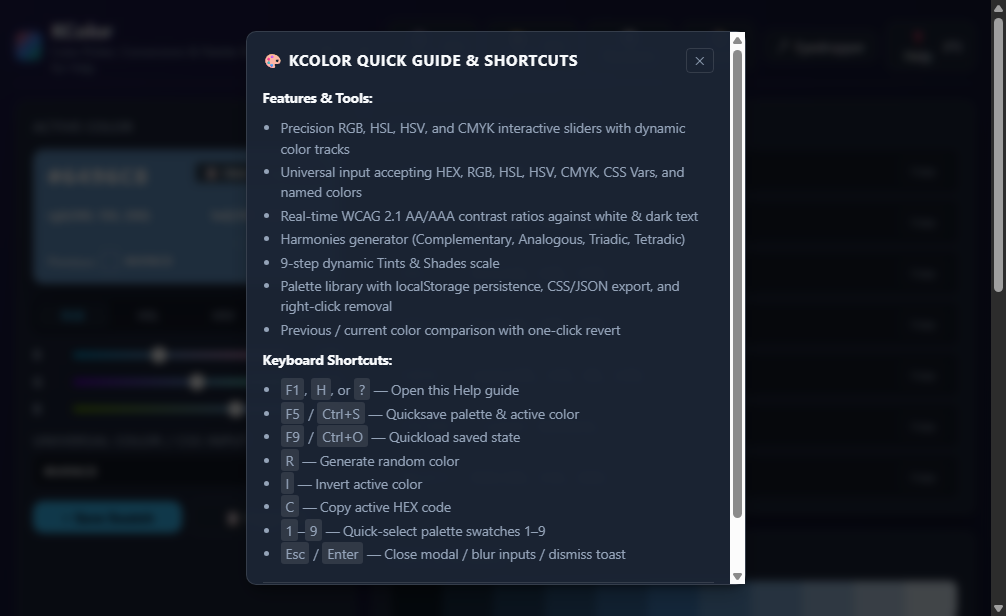
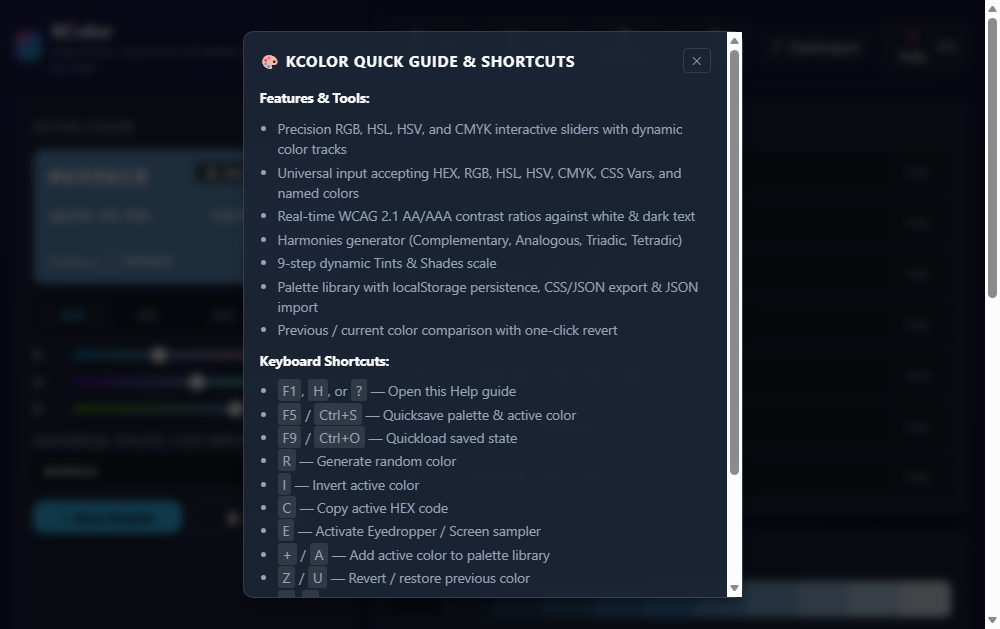
audit(test): UI audit and fixes for KColor

diff --git a/KiloOS/public/apps/kcolor.html b/KiloOS/public/apps/kcolor.html
@@ -448,10 +448,10 @@
 </header>
 
 <!-- Help & Shortcuts Modal -->
-<div id="helpModal" style="display:none; position:fixed; inset:0; background:rgba(0,0,0,0.7); backdrop-filter:blur(4px); z-index:999; justify-content:center; align-items:center; padding:16px;">
+<div id="helpModal" role="dialog" aria-modal="true" aria-labelledby="helpModalTitle" style="display:none; position:fixed; inset:0; background:rgba(0,0,0,0.7); backdrop-filter:blur(4px); z-index:999; justify-content:center; align-items:center; padding:16px;">
   <div class="card" style="max-width:500px; width:100%; max-height:90vh; overflow-y:auto; gap:14px;">
     <div class="card-title">
-      <span style="font-weight:700; color:var(--text-main); font-size:0.95rem;">🎨 KColor Quick Guide &amp; Shortcuts</span>
+      <span id="helpModalTitle" style="font-weight:700; color:var(--text-main); font-size:0.95rem;">🎨 KColor Quick Guide &amp; Shortcuts</span>
       <button class="copy-btn" id="closeHelpBtn" aria-label="Close Help">✕</button>
     </div>
     <div style="font-size:0.85rem; line-height:1.5; color:var(--text-muted); display:flex; flex-direction:column; gap:10px;">
@@ -462,7 +462,7 @@
         <li>Real-time WCAG 2.1 AA/AAA contrast ratios against white &amp; dark text</li>
         <li>Harmonies generator (Complementary, Analogous, Triadic, Tetradic)</li>
         <li>9-step dynamic Tints &amp; Shades scale</li>
-        <li>Palette library with localStorage persistence, CSS/JSON export, and right-click removal</li>
+        <li>Palette library with localStorage persistence, CSS/JSON export &amp; JSON import</li>
         <li>Previous / current color comparison with one-click revert</li>
       </ul>
       <p><strong style="color:var(--text-main);">Keyboard Shortcuts:</strong></p>
@@ -473,7 +473,11 @@
         <li><kbd style="background:rgba(255,255,255,0.1); padding:2px 5px; border-radius:3px;">R</kbd> — Generate random color</li>
         <li><kbd style="background:rgba(255,255,255,0.1); padding:2px 5px; border-radius:3px;">I</kbd> — Invert active color</li>
         <li><kbd style="background:rgba(255,255,255,0.1); padding:2px 5px; border-radius:3px;">C</kbd> — Copy active HEX code</li>
+        <li><kbd style="background:rgba(255,255,255,0.1); padding:2px 5px; border-radius:3px;">E</kbd> — Activate Eyedropper / Screen sampler</li>
+        <li><kbd style="background:rgba(255,255,255,0.1); padding:2px 5px; border-radius:3px;">+</kbd> / <kbd style="background:rgba(255,255,255,0.1); padding:2px 5px; border-radius:3px;">A</kbd> — Add active color to palette library</li>
+        <li><kbd style="background:rgba(255,255,255,0.1); padding:2px 5px; border-radius:3px;">Z</kbd> / <kbd style="background:rgba(255,255,255,0.1); padding:2px 5px; border-radius:3px;">U</kbd> — Revert / restore previous color</li>
         <li><kbd style="background:rgba(255,255,255,0.1); padding:2px 5px; border-radius:3px;">1</kbd>–<kbd style="background:rgba(255,255,255,0.1); padding:2px 5px; border-radius:3px;">9</kbd> — Quick-select palette swatches 1–9</li>
+        <li><kbd style="background:rgba(255,255,255,0.1); padding:2px 5px; border-radius:3px;">Del</kbd> / <kbd style="background:rgba(255,255,255,0.1); padding:2px 5px; border-radius:3px;">Backspace</kbd> — Remove focused saved swatch</li>
         <li><kbd style="background:rgba(255,255,255,0.1); padding:2px 5px; border-radius:3px;">Esc</kbd> / <kbd style="background:rgba(255,255,255,0.1); padding:2px 5px; border-radius:3px;">Enter</kbd> — Close modal / blur inputs / dismiss toast</li>
       </ul>
     </div>
@@ -674,9 +678,11 @@
     <div class="card">
       <div class="card-title">
         <span>Palette Library (1-9 Hotkeys)</span>
-        <div style="display:flex; gap:6px;">
+        <div style="display:flex; gap:6px; flex-wrap:wrap;">
           <button class="copy-btn" id="exportCssBtn" title="Copy all swatches as CSS variables">Copy CSS</button>
           <button class="copy-btn" id="exportJsonBtn" title="Copy all swatches as JSON array">Copy JSON</button>
+          <button class="copy-btn" id="importJsonBtn" title="Import swatches from JSON file">Import JSON</button>
+          <input type="file" id="importJsonFileInput" accept=".json,application/json" style="display:none;" aria-label="Import JSON Palette File">
           <button class="copy-btn" id="clearSwatchesBtn" aria-label="Clear Saved Swatches">Clear Saved</button>
         </div>
       </div>
@@ -806,6 +812,9 @@
   function parseColorString(str) {
     if (!str) return null;
     str = str.replace(/^--[\w-]+\s*:\s*/, '').replace(/;+$/, '').trim();
+    if (/^0x[0-9a-fA-F]+/i.test(str)) {
+      str = '#' + str.slice(2);
+    }
 
     // 1. Check HEX formats (#RGB, #RGBA, #RRGGBB, #RRGGBBAA)
     const hexMatch = str.match(/^#?([0-9a-fA-F]{3}|[0-9a-fA-F]{4}|[0-9a-fA-F]{6}|[0-9a-fA-F]{8})$/);
@@ -826,8 +835,8 @@
       }
     }
 
-    // 2. Check rgb / rgba
-    const rgbMatch = str.match(/^rgba?\s*\(\s*(\d+)\s*,\s*(\d+)\s*,\s*(\d+)/i);
+    // 2. Check rgb / rgba (supports comma or space separation)
+    const rgbMatch = str.match(/^rgba?\s*\(\s*(\d+)(?:[\s,]+)(\d+)(?:[\s,]+)(\d+)/i);
     if (rgbMatch) {
       return {
         r: clamp(parseInt(rgbMatch[1]), 0, 255),
@@ -836,22 +845,22 @@
       };
     }
 
-    // 3. Check hsl / hsla
-    const hslMatch = str.match(/^hsla?\s*\(\s*(\d+)(?:deg|°)?\s*,\s*(\d+)%?\s*,\s*(\d+)%?/i);
+    // 3. Check hsl / hsla (supports decimals, deg/°, commas/spaces)
+    const hslMatch = str.match(/^hsla?\s*\(\s*([\d.]+)(?:deg|°)?(?:[\s,]+)([\d.]+)%?(?:[\s,]+)([\d.]+)%?/i);
     if (hslMatch) {
-      return hslToRgb(parseInt(hslMatch[1]), parseInt(hslMatch[2]), parseInt(hslMatch[3]));
+      return hslToRgb(parseFloat(hslMatch[1]), parseFloat(hslMatch[2]), parseFloat(hslMatch[3]));
     }
 
     // 4. Check hsv / hsva
-    const hsvMatch = str.match(/^hsva?\s*\(\s*(\d+)(?:deg|°)?\s*,\s*(\d+)%?\s*,\s*(\d+)%?/i);
+    const hsvMatch = str.match(/^hsva?\s*\(\s*([\d.]+)(?:deg|°)?(?:[\s,]+)([\d.]+)%?(?:[\s,]+)([\d.]+)%?/i);
     if (hsvMatch) {
-      return hsvToRgb(parseInt(hsvMatch[1]), parseInt(hsvMatch[2]), parseInt(hsvMatch[3]));
+      return hsvToRgb(parseFloat(hsvMatch[1]), parseFloat(hsvMatch[2]), parseFloat(hsvMatch[3]));
     }
 
     // 5. Check cmyk
-    const cmykMatch = str.match(/^cmyk\s*\(\s*(\d+)%?\s*,\s*(\d+)%?\s*,\s*(\d+)%?\s*,\s*(\d+)%?\s*\)/i);
+    const cmykMatch = str.match(/^cmyk\s*\(\s*([\d.]+)%?(?:[\s,]+)([\d.]+)%?(?:[\s,]+)([\d.]+)%?(?:[\s,]+)([\d.]+)%?\s*\)/i);
     if (cmykMatch) {
-      return cmykToRgb(parseInt(cmykMatch[1]), parseInt(cmykMatch[2]), parseInt(cmykMatch[3]), parseInt(cmykMatch[4]));
+      return cmykToRgb(parseFloat(cmykMatch[1]), parseFloat(cmykMatch[2]), parseFloat(cmykMatch[3]), parseFloat(cmykMatch[4]));
     }
 
     // 6. Canvas fallback for CSS named colors (e.g. coral, dodgerblue, tomato)
@@ -1138,6 +1147,7 @@
       el.onkeydown = (e) => {
         if (e.key === 'Enter' || e.key === ' ') {
           e.preventDefault();
+          capturePrevState();
           state = stepRgb;
           updateAll();
         }
@@ -1206,8 +1216,8 @@
       swatch.tabIndex = 0;
       const isSaved = savedSwatches.includes(hex);
       const hotkeyHint = idx < 9 ? ` [Key ${idx + 1}]` : '';
-      swatch.title = isSaved ? `Swatch ${hex}${hotkeyHint} (Click to select, Right-click to remove)` : `Preset ${hex}${hotkeyHint}`;
-      swatch.setAttribute('aria-label', `Palette Swatch ${hex}${hotkeyHint}`);
+      swatch.title = isSaved ? `Swatch ${hex}${hotkeyHint} (Click to select, Right-click or Del to remove)` : `Preset ${hex}${hotkeyHint}`;
+      swatch.setAttribute('aria-label', `Palette Swatch ${hex}${hotkeyHint}${isSaved ? ', Del to remove' : ''}`);
       swatch.onclick = () => {
         capturePrevState();
         const rgb = parseColorString(hex);
@@ -1226,6 +1236,17 @@
         }
       };
       swatch.onkeydown = (e) => {
+        if (isSaved && (e.key === 'Delete' || e.key === 'Backspace')) {
+          e.preventDefault();
+          const sIdx = savedSwatches.indexOf(hex);
+          if (sIdx !== -1) {
+            savedSwatches.splice(sIdx, 1);
+            safeSetStorage('kcolor_saved_swatches', savedSwatches);
+            renderSwatches();
+            showToast(`Removed ${hex} from library`);
+          }
+          return;
+        }
         if (e.key === 'Enter' || e.key === ' ') {
           e.preventDefault();
           capturePrevState();
@@ -1321,6 +1342,7 @@
   ];
   allSliders.forEach(input => {
     input.addEventListener('pointerdown', capturePrevState);
+    input.addEventListener('focus', capturePrevState);
   });
 
   // RGB Sliders
@@ -1368,10 +1390,26 @@
   });
 
   // Universal Color Direct Input Parser
+  let hexInputFocused = false;
+  customHexInput.addEventListener('focus', () => {
+    if (!hexInputFocused) {
+      capturePrevState();
+      hexInputFocused = true;
+    }
+  });
+  customHexInput.addEventListener('blur', () => {
+    hexInputFocused = false;
+  });
+  customHexInput.addEventListener('keydown', (e) => {
+    if (e.key === 'Enter') {
+      e.preventDefault();
+      customHexInput.blur();
+      showToast(`Active color: ${rgbToHex(state.r, state.g, state.b)}`);
+    }
+  });
   customHexInput.addEventListener('input', () => {
     const parsed = parseColorString(customHexInput.value);
     if (parsed) {
-      capturePrevState();
       state = parsed;
       updateAll('customHexInput');
     }
@@ -1418,13 +1456,13 @@
 
   // Eyedropper API with Native Fallback
   document.getElementById('eyedropperBtn').addEventListener('click', async () => {
+    capturePrevState();
     if ('EyeDropper' in window) {
       try {
         const eyeDropper = new EyeDropper();
         const result = await eyeDropper.open();
         const rgb = parseColorString(result.sRGBHex);
         if (rgb) {
-          capturePrevState();
           state = rgb;
           updateAll();
           showToast(`Sampled ${result.sRGBHex}`);
@@ -1552,11 +1590,58 @@
     });
   }
 
+  // Palette Import
+  const importJsonBtn = document.getElementById('importJsonBtn');
+  const importJsonFileInput = document.getElementById('importJsonFileInput');
+  if (importJsonBtn && importJsonFileInput) {
+    importJsonBtn.addEventListener('click', () => {
+      importJsonFileInput.click();
+    });
+    importJsonFileInput.addEventListener('change', (e) => {
+      const file = e.target.files && e.target.files[0];
+      if (!file) return;
+      const reader = new FileReader();
+      reader.onload = (ev) => {
+        try {
+          const data = JSON.parse(ev.target.result);
+          let count = 0;
+          const candidates = Array.isArray(data)
+            ? data
+            : (data && typeof data === 'object' && Array.isArray(data.savedSwatches))
+              ? data.savedSwatches
+              : (data && typeof data === 'object')
+                ? Object.values(data)
+                : [];
+          candidates.forEach(item => {
+            const str = typeof item === 'string' ? item : (item && (item.hex || item.color));
+            const parsed = parseColorString(str);
+            if (parsed) {
+              const hex = rgbToHex(parsed.r, parsed.g, parsed.b);
+              if (!savedSwatches.includes(hex)) {
+                savedSwatches.unshift(hex);
+                count++;
+              }
+            }
+          });
+          if (savedSwatches.length > 24) savedSwatches = savedSwatches.slice(0, 24);
+          safeSetStorage('kcolor_saved_swatches', savedSwatches);
+          renderSwatches();
+          showToast(`Imported ${count} new swatch${count === 1 ? '' : 'es'} from JSON`);
+        } catch (err) {
+          showToast('Failed to parse JSON file');
+        }
+        importJsonFileInput.value = '';
+      };
+      reader.readAsText(file);
+    });
+  }
+
   // Clipboard Helpers
   function copyValue(elementId) {
     const text = document.getElementById(elementId).textContent;
     copyStringToClipboard(text);
   }
+  window.copyValue = copyValue;
 
   function copyStringToClipboard(text) {
     if (navigator.clipboard && window.isSecureContext) {
@@ -1567,6 +1652,7 @@
       fallbackCopy(text);
     }
   }
+  window.copyStringToClipboard = copyStringToClipboard;
 
   function fallbackCopy(text) {
     const ta = document.createElement('textarea');
@@ -1726,6 +1812,17 @@
       e.preventDefault();
       const hex = rgbToHex(state.r, state.g, state.b);
       copyStringToClipboard(hex);
+    } else if (e.key === 'e' || e.key === 'E') {
+      e.preventDefault();
+      const eyeBtn = document.getElementById('eyedropperBtn');
+      if (eyeBtn) eyeBtn.click();
+    } else if (e.key === '+' || e.key === '=' || e.key === 'a' || e.key === 'A') {
+      e.preventDefault();
+      const addBtn = document.getElementById('addSwatchBtn');
+      if (addBtn) addBtn.click();
+    } else if (e.key === 'z' || e.key === 'Z' || e.key === 'u' || e.key === 'U') {
+      e.preventDefault();
+      revertToPrevColor();
     } else if (e.key === 'h' || e.key === 'H' || e.key === '?') {
       e.preventDefault();
       toggleHelp();

diff --git a/next_work.md b/next_work.md
@@ -1,6 +1,6 @@
 ---
-current_agent: kilo-tester
-next_agent: kilo-usability
+current_agent: kilo-usability
+next_agent: kilo-qa
 agent_rotation:
   - kilo-creator
   - kilo-graphics
@@ -14,7 +14,7 @@ status: ready
 current_targets:
   kilo_creator: "kweb://asm-temple"
   kilo_graphics: KFarm
-  kilo_tester: KColor
+  kilo_tester: KTimer
   kilo_usability: KSimon
   kilo_qa: KSudoku
   kilo_expander: KGo
@@ -32,9 +32,9 @@ virtual_web_rotation:
   - "kweb://webring"
   - "kweb://warez"
 last_run:
-  agent: kilo-graphics
-  app: KSpace
-  timestamp: "2026-10-07T13:35:00-07:00"
+  agent: kilo-tester
+  app: KColor
+  timestamp: "2026-10-07T14:20:00-07:00"
 last_planner_run: "2026-10-07T14:38:00Z"
 ---
 
@@ -114,9 +114,9 @@ The Windows Task Scheduler orchestrator (`scripts/orchestrate.py`) parses the YA
   `KWizard`, `KColony`, `KDragon`, `KMech`, `KColosseum`, `KAbyss`, `KBreakout`, `KAsteroids`, `KSpace` *(Note: Pure vector/wireframe or abstract board targets skip automatically per Mandate 15. Completed: KQuest Phases 1-5, KSpace)*.
 
 ### 3. App Tester Queue (`kilo-tester`)
-- **Current Target**: `KColor`
+- **Current Target**: `KTimer`
 - **Upcoming Queue**:
-  `KTimer`, `KConverter`, `KQuarantine`, `KSettings`, `KTaskMgr`, `K2048`, `KSudoku`, `KConnect4`, `KHangman`, `KSimon`, `KFreecell`, `KMatch3`, `KWords`, `KGo`, `KDarts`, `KRSS`, `KClip`, `KCipher`, `KCalc`, `KMine`, `KSnake`, `KTetris`, `KPong`, `KMaze`, `KSolitaire`, `KChess` *(Completed: KChess, KMaze, KPong, KStarForge, KTask, KChrono, KSys, KSynth, KCyber, KCosmic, KContacts, KDB, KDragon, KFlash, KFont, KFortress, KGraph, KHabit, KHex, KImage, KJournal, KMail, KMandel, KMech, KMedia, KMystery, KNet, KNote, KPad, KPaint, KPass, KPing, KQuest, KRadio, KRead, KSanctuary, KScript, KStarDredge, KStarship, KStellar, KSubmarine, KTerm, KHash, KRSS, KClip, KCipher, KCalc, KMine, KSnake, KTetris, KSolitaire)*.
+  `KConverter`, `KQuarantine`, `KSettings`, `KTaskMgr`, `K2048`, `KSudoku`, `KConnect4`, `KHangman`, `KSimon`, `KFreecell`, `KMatch3`, `KWords`, `KGo`, `KDarts`, `KRSS`, `KClip`, `KCipher`, `KCalc`, `KMine`, `KSnake`, `KTetris`, `KPong`, `KMaze`, `KSolitaire`, `KChess` *(Completed: KChess, KMaze, KPong, KStarForge, KTask, KChrono, KSys, KSynth, KCyber, KCosmic, KContacts, KDB, KDragon, KFlash, KFont, KFortress, KGraph, KHabit, KHex, KImage, KJournal, KMail, KMandel, KMech, KMedia, KMystery, KNet, KNote, KPad, KPaint, KPass, KPing, KQuest, KRadio, KRead, KSanctuary, KScript, KStarDredge, KStarship, KStellar, KSubmarine, KTerm, KHash, KRSS, KClip, KCipher, KCalc, KMine, KSnake, KTetris, KSolitaire, KColor)*.
 
 ### 4. Usability & UX Queue (`kilo-usability`)
 - **Current Target**: `KSimon`
@@ -217,6 +217,15 @@ The Windows Task Scheduler orchestrator (`scripts/orchestrate.py`) parses the YA
 
 ## Recent Execution Logs (Max 5 Entries)
 
+- **2026-10-07T14:20:00-07:00 — kilo-tester: KColor (Interactive UI Audit: Dialog Roles, Palette JSON Import, Focus & Keyboard Parity)**
+  - Status: PASS ✅ (5 UI issues identified and fixed; 0 regressions).
+  - Palette Library: Added JSON palette file import (`importJsonBtn` + FileReader) with auto-parsing and duplicate filtering.
+  - Keyboard Parity: Added `Delete`/`Backspace` key handler to remove saved swatches without mouse; added `+`/`A` hotkeys to save active color.
+  - State & History: Added `focus` state capture to sliders and hex input; fixed `renderShades` keyboard handler to capture `prevState` on Enter/Space.
+  - Hotkeys & Navigation: Added `E` (eyedropper), `Z`/`U` (revert color); added `Enter` blur on universal hex input; added dialog accessibility.
+  - Verification: `test_app_startup.py` PASS (0 JS err, CSS valid); `test_web_apps.js` PASS (61 elements, 0 err); Vite clean (788ms); web 70.7 KB < 999 KB.
+  - Queue: Advanced `kilo_tester` to `KTimer`; rotation handoff to `kilo-usability`.
+
 - **2026-10-07T13:35:00-07:00 — kilo-graphics: KSpace (Skip Turn — Mature Imagen 3 Art & Glint/Dot Audit)**
   - Status: ⏭ Skip — Imagen 3 asset replacement not appropriate for KSpace
   - Rationale: Mature custom art; all 13 entity sprites and celestial backgrounds already Imagen 3 generated.
@@ -247,15 +256,6 @@ The Windows Task Scheduler orchestrator (`scripts/orchestrate.py`) parses the YA
   - Multiplayer & ARG Polish: Fixed draw winner sync; wired diegetic 10.19.99.4/classified subcarrier lock in position loader.
   - Verification: `test_web_apps.js` PASS (62 interactive, 60 FPS, 0 err); `security_lint.py` 100% PASS; MSVC native build clean; Vite clean (763ms).
   - Queue: Advanced `kilo_expander` to `KGo`; rotation handoff to `kilo-creator`.
-
-- **2026-10-07T11:21:00-07:00 — kilo-qa: KHabit (Pass 5: Tutorial & State Integrity Audit & Persistence Fixes)**
-  - Status: PASS ✅ (0 regressions, 88.5 KB web / 176.0 KB native < 999 KB ceiling).
-  - State Persistence: Upgraded F5 quicksave & F9 quickload to persist full state (settings, habits, theme, sort, tutorial flag) in both web and native C.
-  - Tutorial Integrity: Enforced first-run tutorial flag (`khabit_tutorialSeen` / `.dat`) firing only on fresh sessions, never interrupting restored save states.
-  - Storage & Safety: Standardized safe storage wrappers (`safeGet`, `safeSet`, `safeRemove`) across all local storage calls with quota guards.
-  - Keyboard & Modals: Enhanced Enter/Space/Escape keyboard modal dismissal and navigation; wired visibilitychange refresh and audio gesture resume.
-  - Verification: `test_web_apps.js` PASS (35 elements, 0 err); `security_lint.py` 100% PASS; MSVC native build clean; Vite clean (752ms).
-  - Queue: Advanced `kilo_qa` to `KSudoku`; rotation handoff to `kilo-expander`.
 
 
 

diff --git a/archive/fleet_execution_archive.md b/archive/fleet_execution_archive.md
@@ -4,6 +4,15 @@ This file stores historical execution logs archived from `next_work.md` to keep 
 
 ## Archived Logs (Pre-Windows Task Scheduler Cutover)
 
+- **2026-10-07T11:21:00-07:00 — kilo-qa: KHabit (Pass 5: Tutorial & State Integrity Audit & Persistence Fixes)**
+  - Status: PASS ✅ (0 regressions, 88.5 KB web / 176.0 KB native < 999 KB ceiling).
+  - State Persistence: Upgraded F5 quicksave & F9 quickload to persist full state (settings, habits, theme, sort, tutorial flag) in both web and native C.
+  - Tutorial Integrity: Enforced first-run tutorial flag (`khabit_tutorialSeen` / `.dat`) firing only on fresh sessions, never interrupting restored save states.
+  - Storage & Safety: Standardized safe storage wrappers (`safeGet`, `safeSet`, `safeRemove`) across all local storage calls with quota guards.
+  - Keyboard & Modals: Enhanced Enter/Space/Escape keyboard modal dismissal and navigation; wired visibilitychange refresh and audio gesture resume.
+  - Verification: `test_web_apps.js` PASS (35 elements, 0 err); `security_lint.py` 100% PASS; MSVC native build clean; Vite clean (752ms).
+  - Queue: Advanced `kilo_qa` to `KSudoku`; rotation handoff to `kilo-expander`.
+
 - **2026-10-07T10:45:00-07:00 — kilo-usability: KSettings (UI/UX & Usability Pass: Window Dimensions, Layout Ergonomics & Audio Polish)**
   - Status: PASS ✅ (0 regressions, 70.5 KB web < 999 KB ceiling).
   - Window & Layout: Tuned default dimensions to 700x560 in App.jsx; eliminated tab-bar clipping and overflow.
